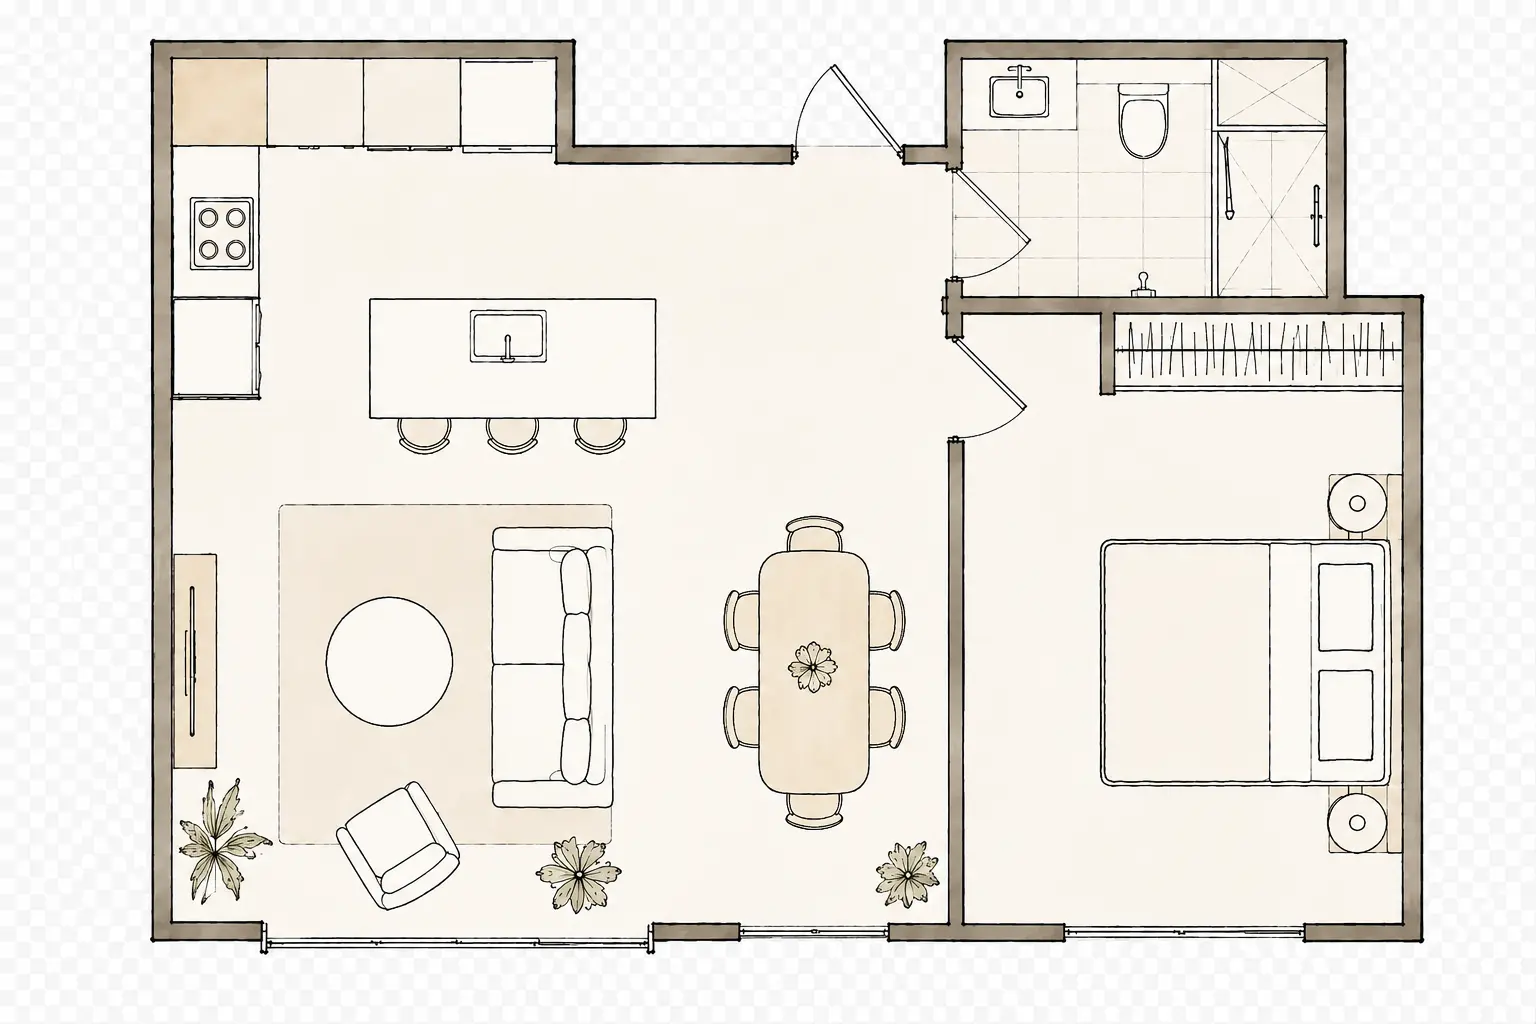
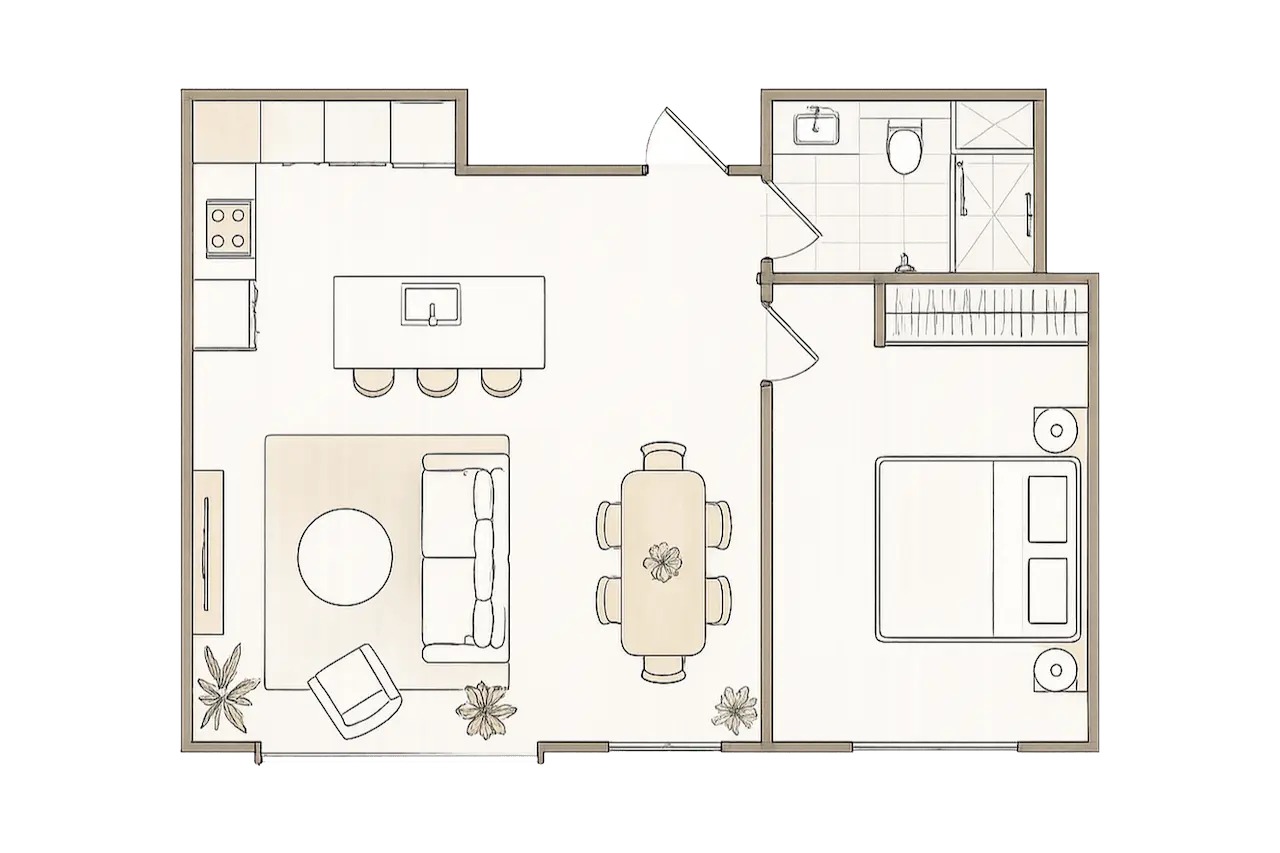
feat: rename Boho Haven to Boho Heaven, update service image, and center AboutHero text

diff --git a/src/data/projects.ts b/src/data/projects.ts
@@ -113,8 +113,8 @@ export const projects: Project[] = [
     ],
   },
   {
-    slug: 'boho-haven',
-    name: 'Boho Haven',
+    slug: 'boho-heaven',
+    name: 'Boho Heaven',
     cover: cdn + 'v1631128400/deptoBrandsen/deptoBrandsen-1_opinbb.jpg',
     description:
       'This apartment redesign reflected the essence of a young woman passionate about surfing and yoga, transforming the space into a true home. A boho chic aesthetic was achieved by repurposing furniture, enhancing lighting, and incorporating warm textures and soft pink tones, while functional upgrades in the kitchen and bedroom added both style and practicality tailored to her lifestyle.',